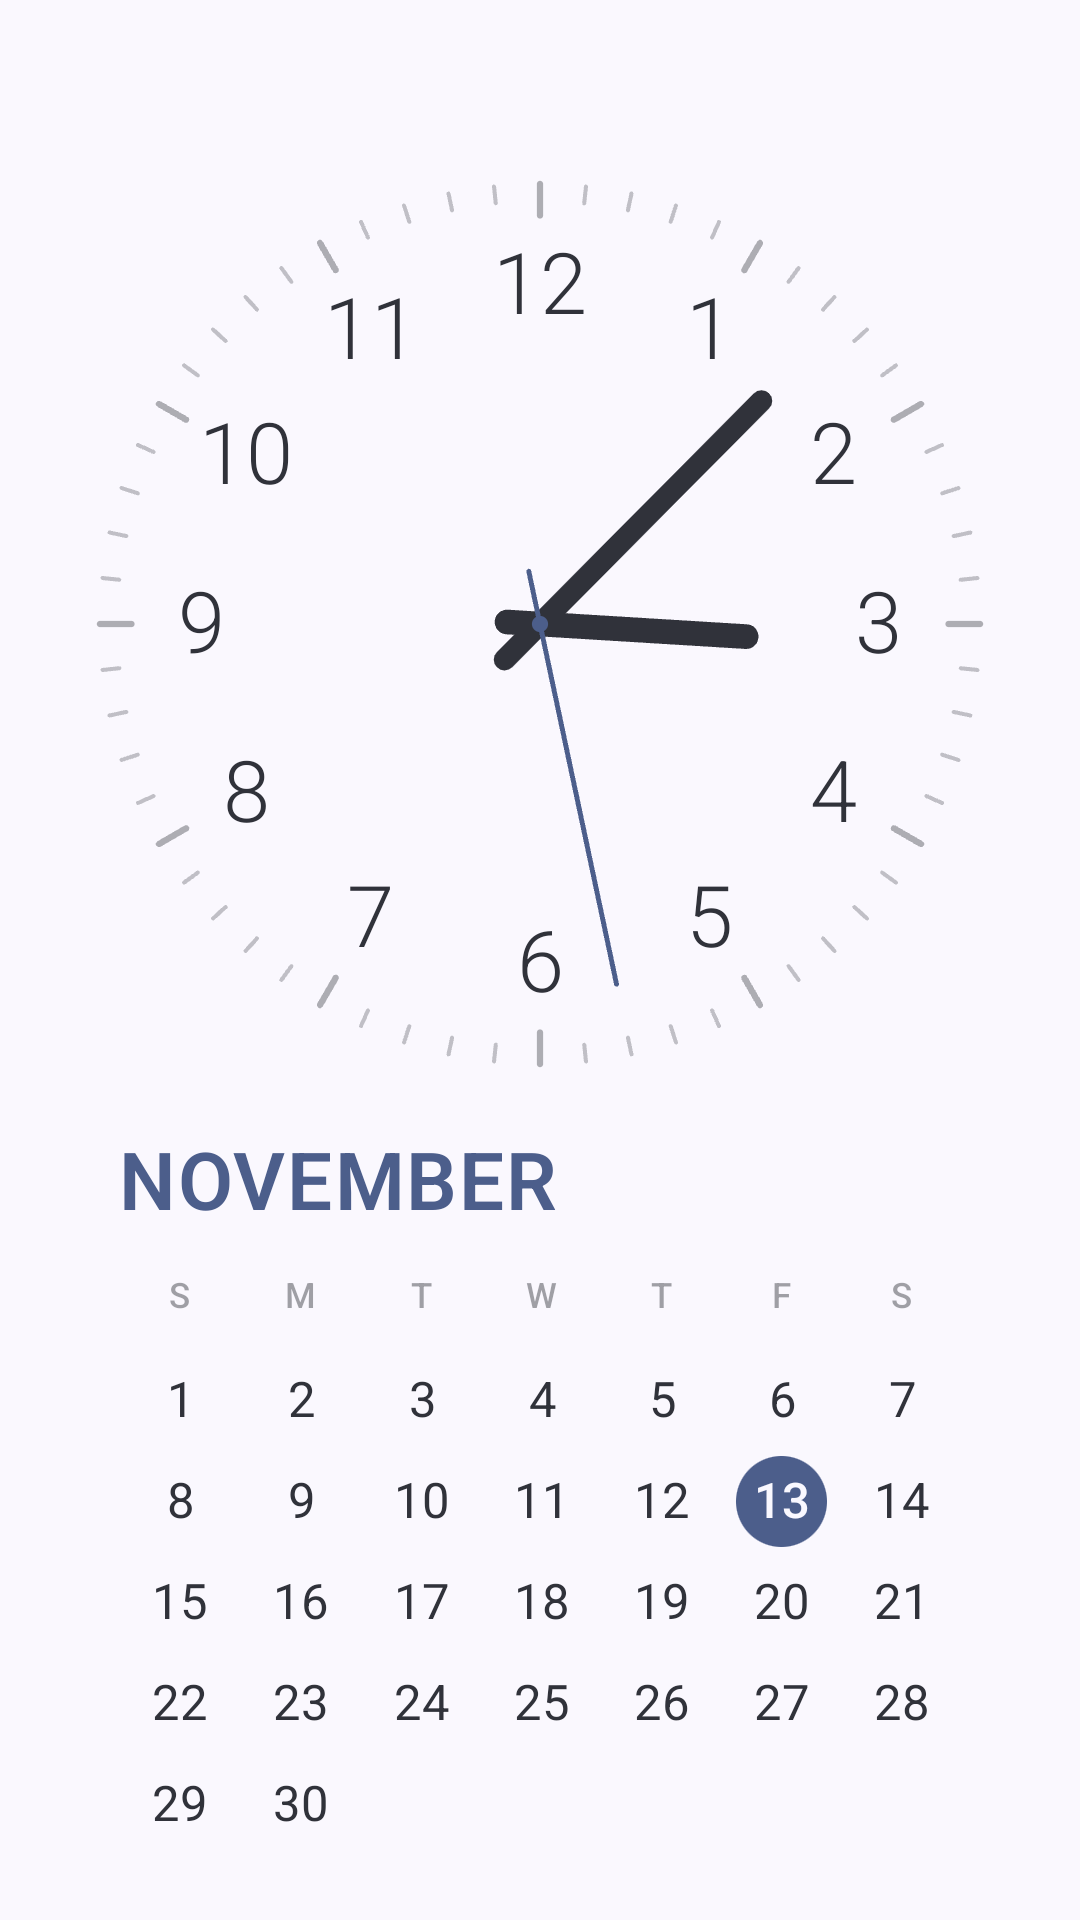
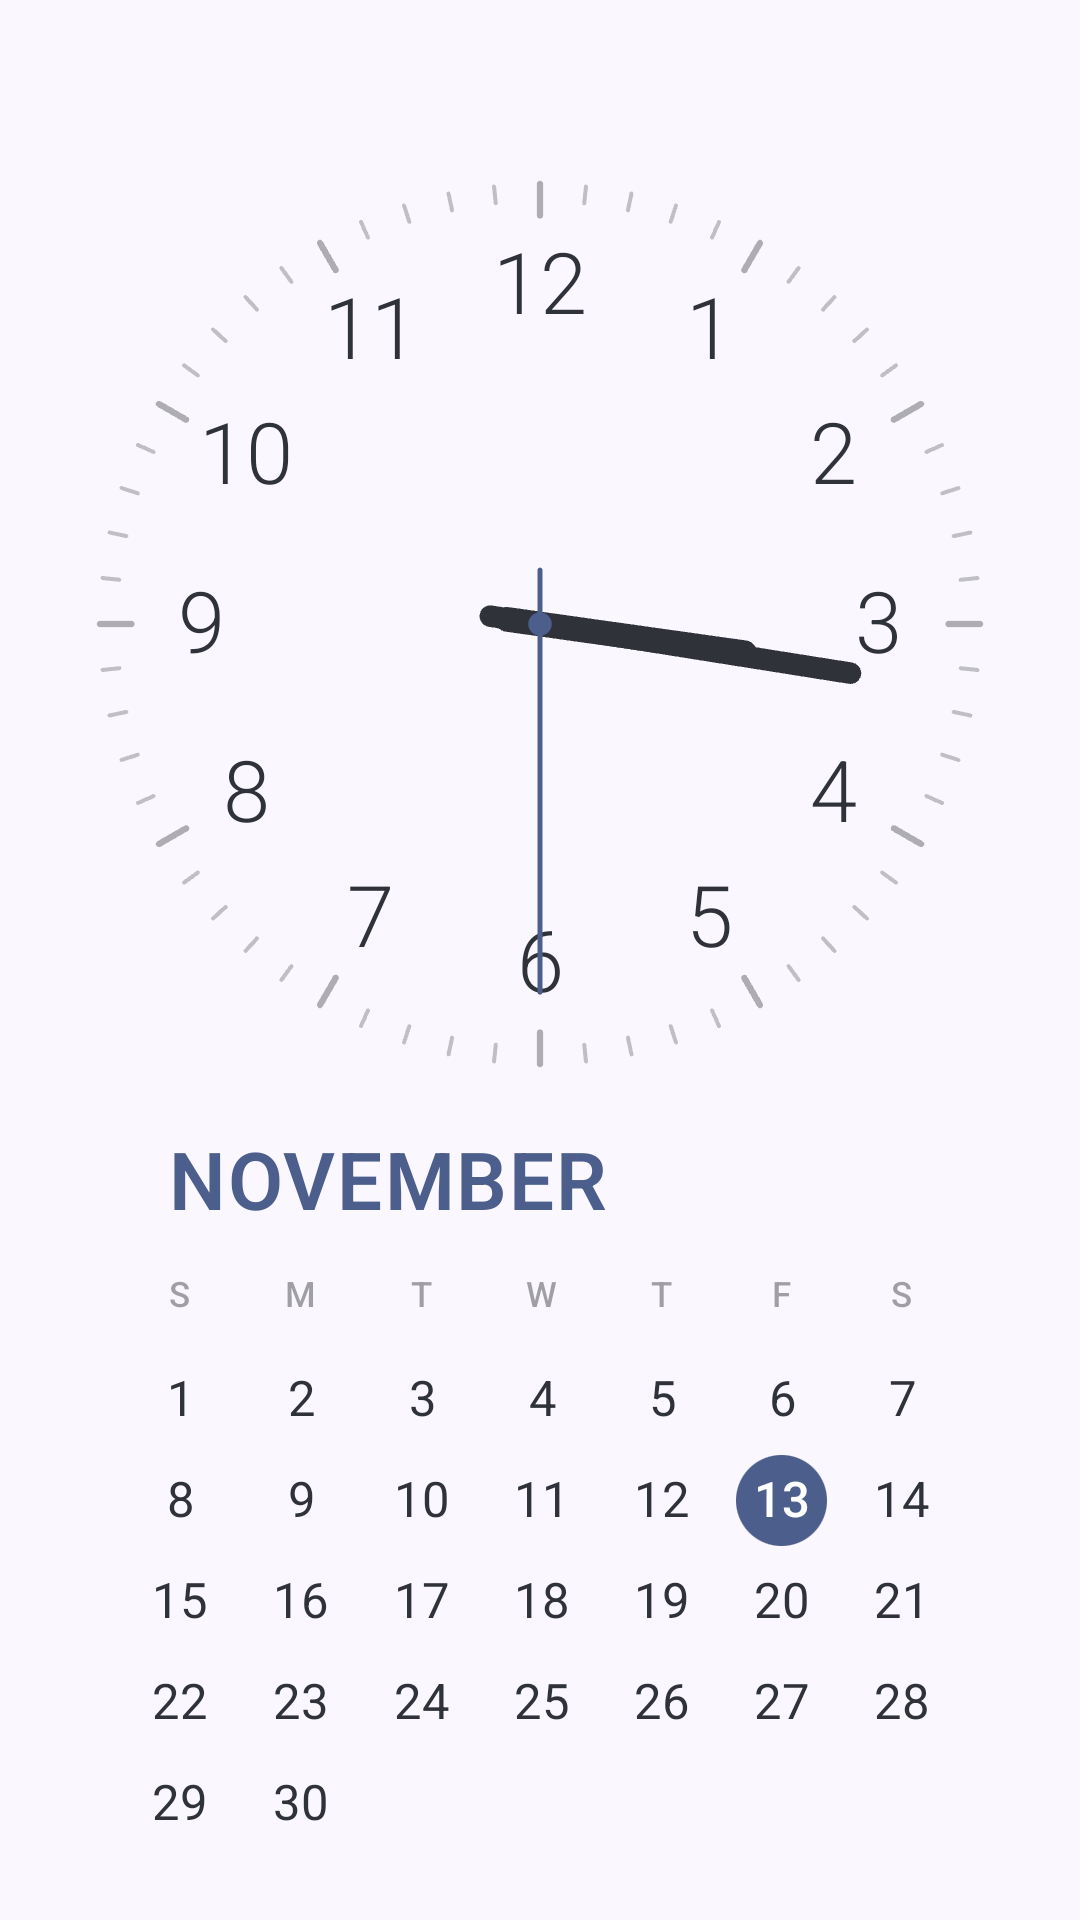
Make today readable at night and align the month label
The dark scheme's primary is a light tone, so the today circle took the
scheme's onPrimary and drew a near-black numeral on a dark screen. The
circle is now deepened at night and the numeral white, which keeps the
highlight readable and matches the bedside look.

The month label sat flush with the grid box while the cells centre their
numerals, which left the label hanging roughly half a cell to the left of
the first column. It is now inset by half a cell minus a weekday glyph so
it lines up with the column underneath.

Store screenshots 2 and 4 refreshed.

diff --git a/app/src/main/kotlin/com/gt610/lunadial/ui/clock/CalendarPanel.kt b/app/src/main/kotlin/com/gt610/lunadial/ui/clock/CalendarPanel.kt
@@ -17,7 +17,13 @@ import androidx.compose.runtime.remember
 import androidx.compose.ui.Alignment
 import androidx.compose.ui.Modifier
 import androidx.compose.ui.draw.clip
+import androidx.compose.ui.graphics.Color
+import androidx.compose.ui.graphics.lerp
+import androidx.compose.ui.graphics.luminance
+import androidx.compose.ui.platform.LocalDensity
+import androidx.compose.ui.text.TextStyle
 import androidx.compose.ui.text.font.FontWeight
+import androidx.compose.ui.text.rememberTextMeasurer
 import androidx.compose.ui.text.style.TextAlign
 import androidx.compose.ui.unit.TextUnit
 import androidx.compose.ui.unit.dp
@@ -42,6 +48,11 @@ fun CalendarPanel(
   val locale = rememberLocale()
   val colors = MaterialTheme.colorScheme
   val accent = colors.primary
+  // The dark scheme's primary is a light tone: a plain accent circle would put
+  // a dark numeral on a dark screen. Deepen the circle at night and keep the
+  // numeral white, which is what a bedside clock wants.
+  val todayCircle = if (nightMode) lerp(accent, Color.Black, 0.38f) else accent
+  val onAccent = if (todayCircle.luminance() > 0.42f) Color.Black else Color.White
   val dayColor = if (nightMode) androidx.compose.ui.graphics.Color.White else colors.onSurface
   val mutedColor = dayColor.copy(alpha = 0.45f)
 
@@ -56,20 +67,35 @@ fun CalendarPanel(
   BoxWithConstraints(modifier = modifier) {
     val width = maxWidth
     val cellWidth = width / 7
+    val measurer = rememberTextMeasurer()
+    val density = LocalDensity.current
     val rowHeight = cellWidth * 0.84f
     val monthFontSize: TextUnit = (width.value * 0.095f).coerceIn(16f, 38f).sp
+    val titleStyle = TextStyle(
+      fontSize = monthFontSize,
+      fontWeight = FontWeight.SemiBold,
+      letterSpacing = 1.sp,
+    )
     val weekdayFontSize: TextUnit = (width.value * 0.042f).coerceIn(9f, 17f).sp
     val dayFontSize: TextUnit = (width.value * 0.058f).coerceIn(11f, 24f).sp
+    // Cells centre their content, so the month label is nudged right by half a
+    // cell minus half of a weekday glyph to line up with the first column.
+    val titleInset = remember(weekdayLabels, cellWidth, weekdayFontSize, density) {
+      val columnGlyph = measurer.measure(
+        weekdayLabels.first(),
+        TextStyle(fontSize = weekdayFontSize, fontWeight = FontWeight.Medium),
+      ).size.width
+      ((with(density) { cellWidth.toPx() } - columnGlyph) / 2f).coerceAtLeast(0f)
+    }
 
     Column(modifier = Modifier.fillMaxWidth()) {
       Text(
         text = monthName,
+        style = titleStyle,
         color = accent,
-        fontSize = monthFontSize,
-        fontWeight = FontWeight.SemiBold,
-        letterSpacing = 1.sp,
         maxLines = 1,
-        modifier = Modifier.padding(bottom = cellWidth * 0.28f),
+        modifier = Modifier
+          .padding(start = with(density) { titleInset.toDp() }, bottom = cellWidth * 0.28f),
       )
 
       Row(modifier = Modifier.fillMaxWidth()) {
@@ -108,13 +134,13 @@ fun CalendarPanel(
                       .size(cellWidth * 0.76f)
                       .clip(CircleShape)
                       .background(
-                        if (isToday) accent else androidx.compose.ui.graphics.Color.Transparent,
+                        if (isToday) todayCircle else Color.Transparent,
                       ),
                     contentAlignment = Alignment.Center,
                   ) {
                     Text(
                       text = day.toString(),
-                      color = if (isToday) colors.onPrimary else dayColor,
+                      color = if (isToday) onAccent else dayColor,
                       fontSize = dayFontSize,
                       fontWeight = if (isToday) FontWeight.Medium else FontWeight.Normal,
                       textAlign = TextAlign.Center,
